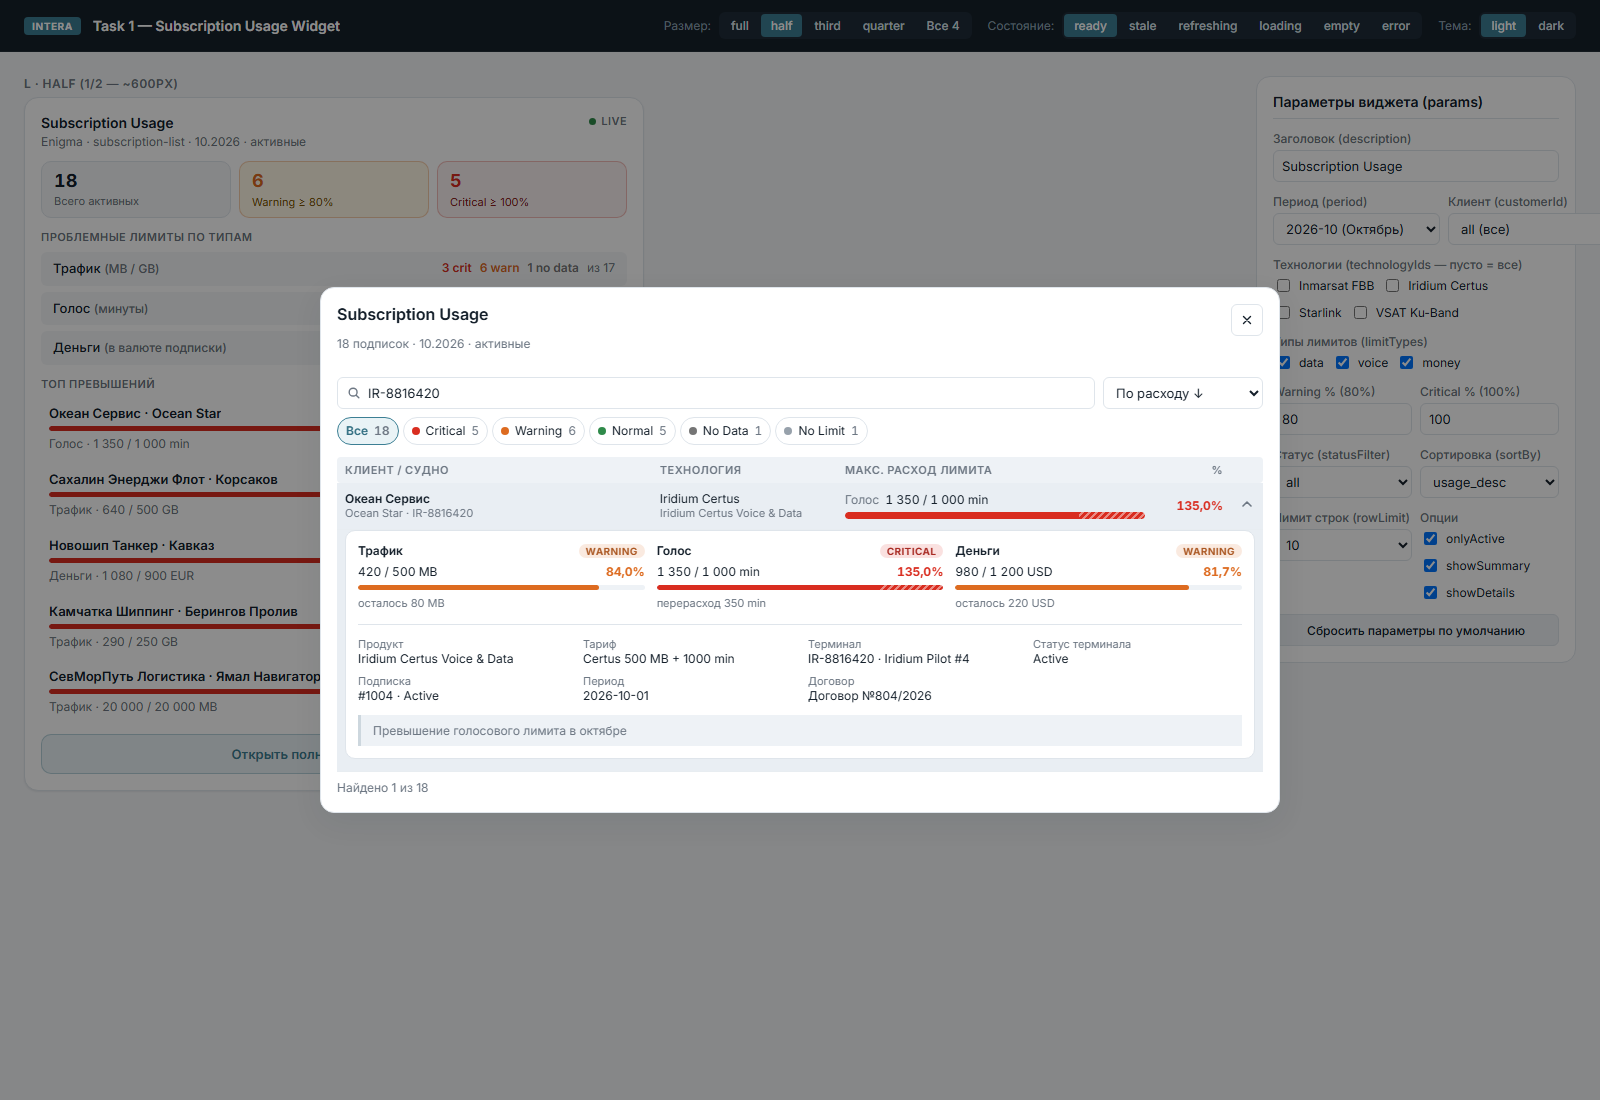
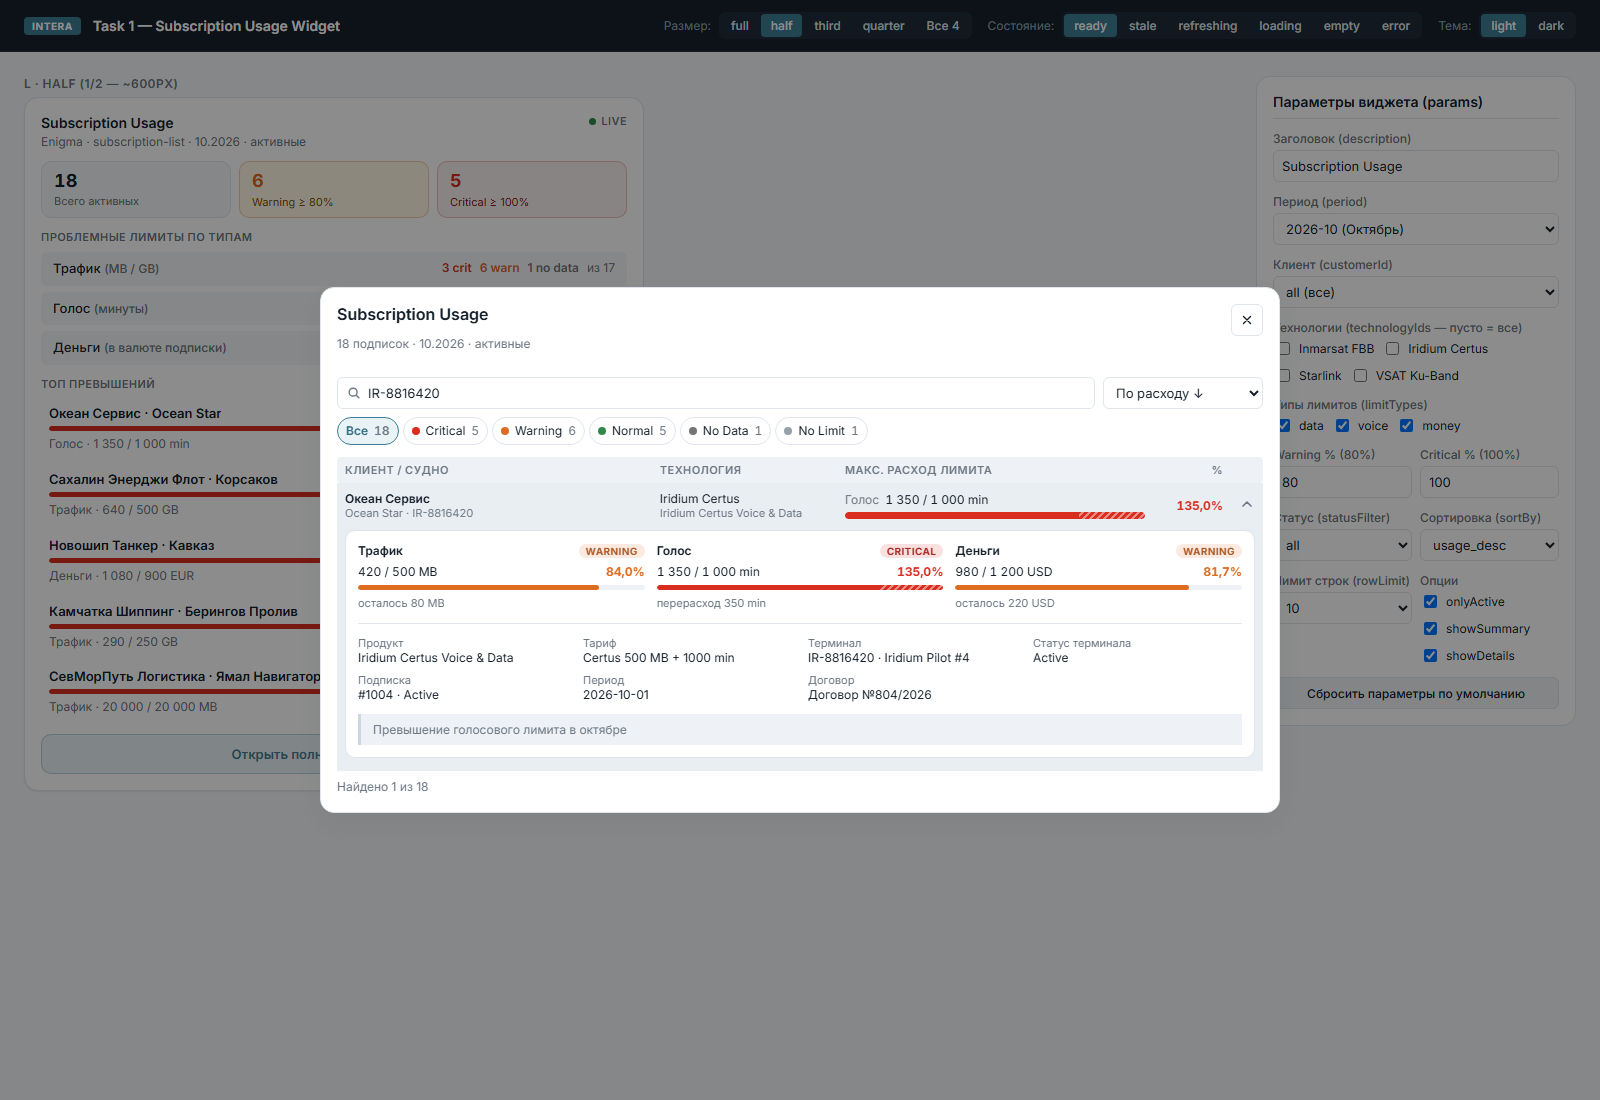
Add mobile shortcut to sandbox params and refresh screenshots

diff --git a/src/sandbox/sandbox.css b/src/sandbox/sandbox.css
@@ -40,7 +40,7 @@
 .sandbox-toolbar {
   display: flex;
   align-items: center;
-  gap: var(--space-4);
+  gap: var(--space-2) var(--space-4);
   flex-wrap: wrap;
 }
 
@@ -174,7 +174,26 @@
   align-items: flex-start;
 }
 
+.sandbox-params-link {
+  display: none;
+  margin-left: auto;
+  font-size: var(--text-xs);
+  font-weight: var(--font-weight-medium);
+  color: var(--nav-text);
+  text-decoration: none;
+  padding: 4px 10px;
+  border-radius: var(--radius-sm);
+  background: var(--nav-surface);
+}
+
+@media (max-width: 1024px) {
+  .sandbox-params-link {
+    display: inline-block;
+  }
+}
+
 .sandbox-panel {
+  scroll-margin-top: var(--space-4);
   background: var(--dash-card-bg);
   border: 1px solid var(--dash-card-border);
   border-radius: var(--dash-radius);

diff --git a/src/sandbox/sandbox-app.tsx b/src/sandbox/sandbox-app.tsx
@@ -274,6 +274,9 @@ export function SandboxApp(): ReactElement {
                 </button>
               ))}
             </div>
+            <a className="sandbox-params-link" href="#widget-params">
+              Параметры ↓
+            </a>
           </div>
         </div>
       </header>
@@ -315,7 +318,7 @@ export function SandboxApp(): ReactElement {
           )}
         </section>
 
-        <aside className="sandbox-panel">
+        <aside className="sandbox-panel" id="widget-params">
           <h3 className="sandbox-panel__title">Параметры виджета (params)</h3>
 
           <label className="sandbox-field">
